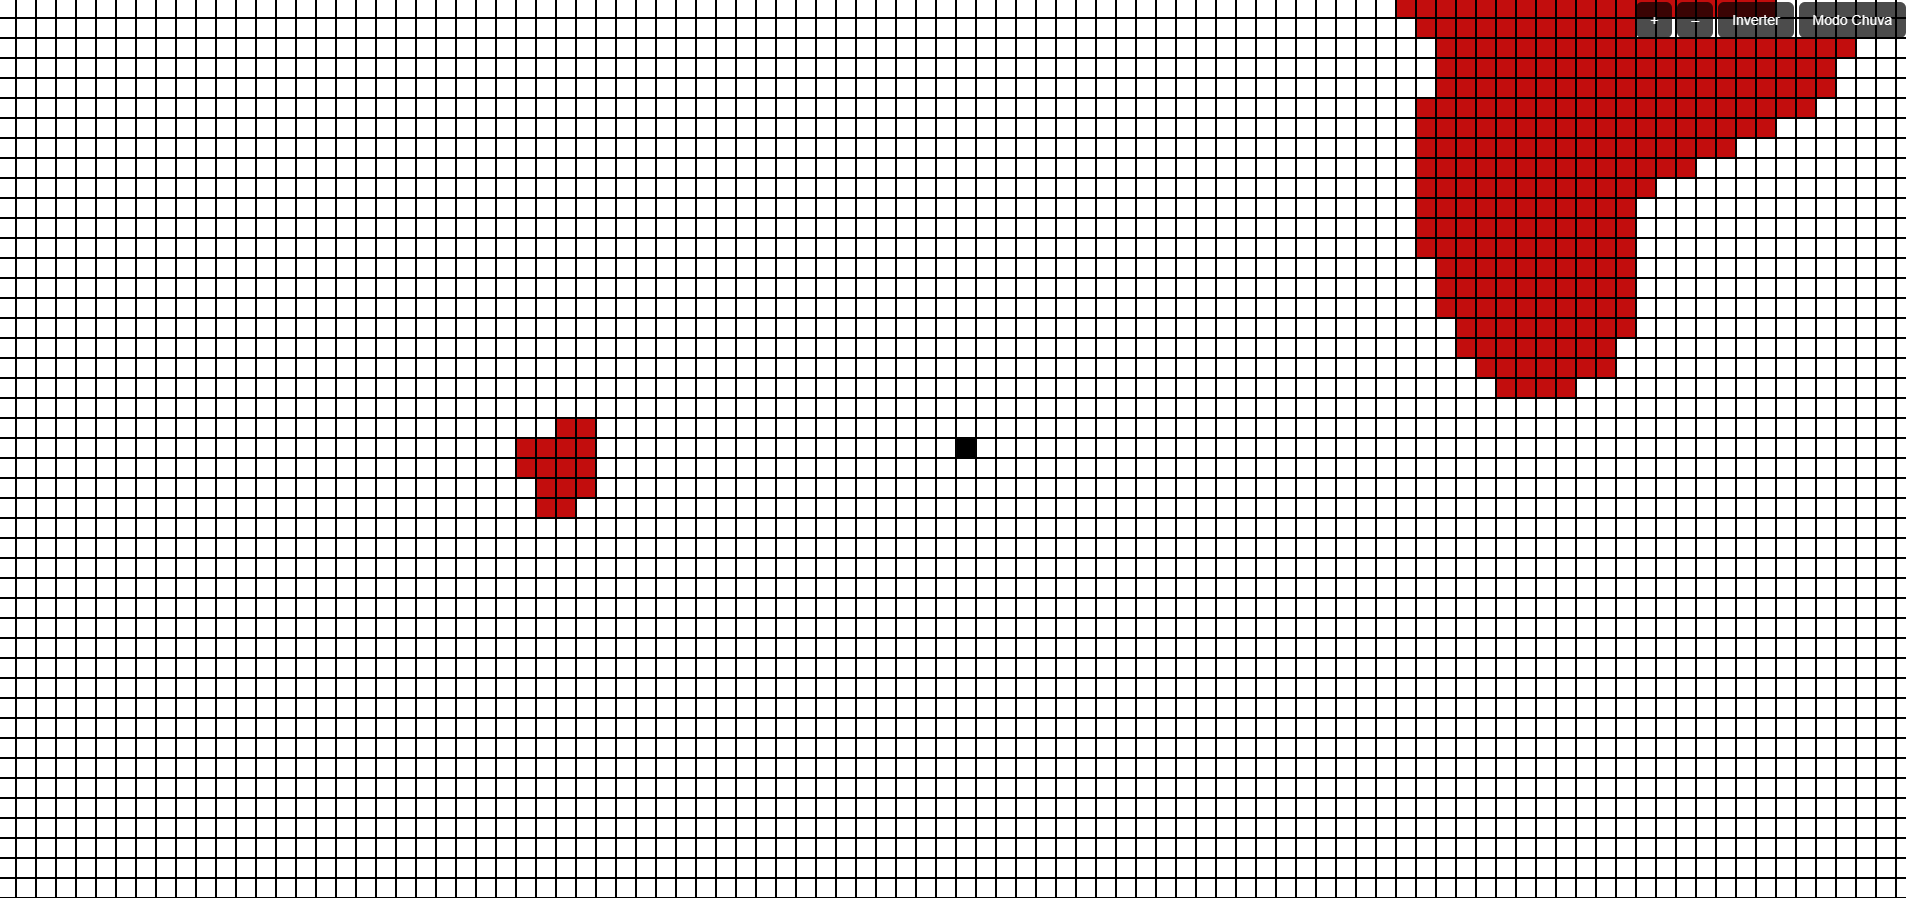
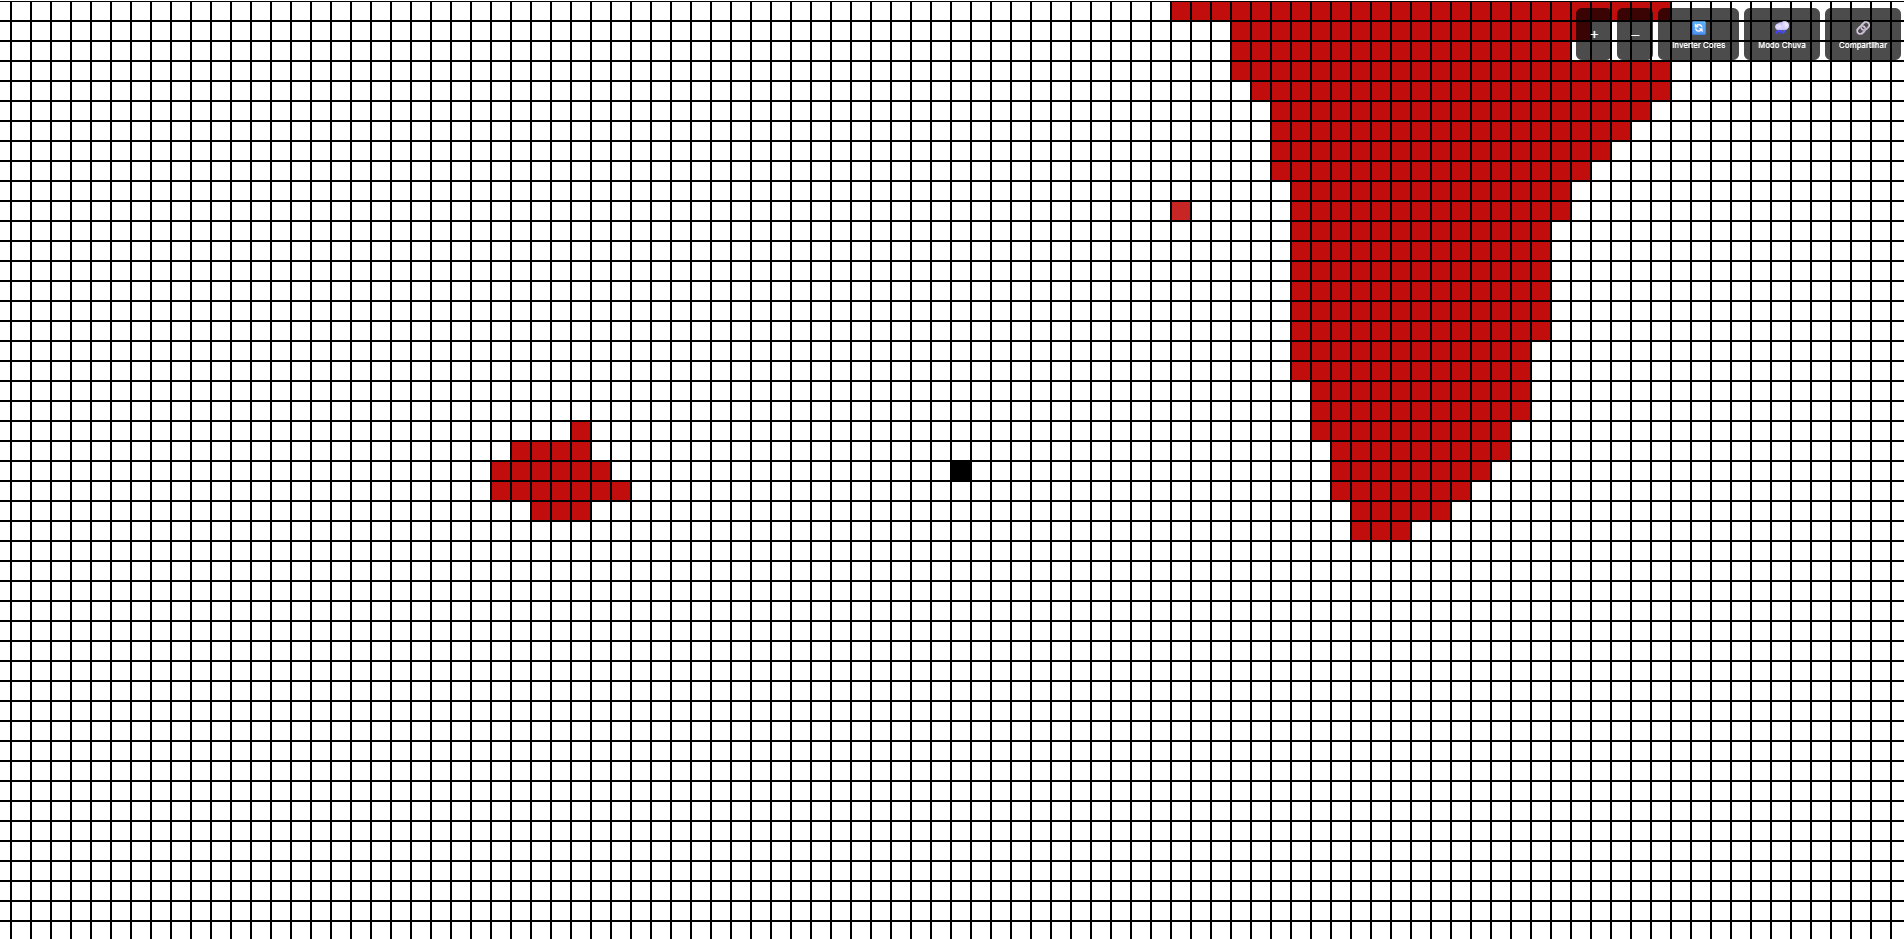
Refactor README to enhance feature list and add sharing functionality; update index.html for improved rain mode controls and grid sharing; update screenshot

diff --git a/index.html b/index.html
@@ -107,6 +107,16 @@
                 background-color: rgba(0, 0, 0, 0.9);
             }
 
+            .toggle-button.active {
+                background-color: rgba(0, 0, 0, 1);
+            }
+
+            .toggle-button span {
+                display: block;
+                font-size: 60%;
+                padding-top: 3px;
+            }
+
             body.dark .toggle-button,
             body.dark .zoom-button {
                 background-color: rgba(255, 255, 255, 0.2);
@@ -116,6 +126,11 @@
             body.dark .toggle-button:hover,
             body.dark .zoom-button:hover {
                 background-color: rgba(255, 255, 255, 0.4);
+            }
+
+            body.dark .toggle-button.active {
+                background-color: rgba(255, 255, 255, 1);
+                color: black;
             }
 
             @media print {
@@ -178,14 +193,18 @@
                 onclick="toggleTheme()"
                 title="Inverter cores (Ctrl + I)"
             >
-                Inverter
+                🔄<span>Inverter Cores</span>
             </button>
             <button
+                id="rain-toggle"
                 class="toggle-button"
                 onclick="toggleRainMode()"
                 title="Ativar/Desativar Modo Chuva (Ctrl + R)"
             >
-                Modo Chuva
+                🌧<span>Modo Chuva</span>
+            </button>
+            <button class="toggle-button" onclick="copyShareLink()" title="Compartilhar grade">
+                🔗<span>Compartilhar</span>
             </button>
         </div>
 
@@ -201,6 +220,7 @@
             let rainMode = false;
             let rainInterval;
 
+            /* Grid Drawing */
             function drawGrid() {
                 const grid = document.getElementById("grid");
 
@@ -253,6 +273,46 @@
                 }
             }
 
+            function drawGridFixed(columns, rows) {
+                const grid = document.getElementById("grid");
+                grid.innerHTML = "";
+
+                const cellSize = 20;
+                grid.style.gridTemplateColumns = `repeat(${columns}, ${cellSize}px)`;
+                grid.style.gridTemplateRows = `repeat(${rows}, ${cellSize}px)`;
+
+                for (let i = 0; i < columns * rows; i++) {
+                    const cell = document.createElement("div");
+                    cell.className = "grid-cell";
+
+                    cell.addEventListener("mousedown", (e) => {
+                        e.preventDefault();
+                        isMouseDown = true;
+                        eraseMode = e.button === 2;
+                        paintCell(cell);
+                    });
+
+                    cell.addEventListener("mouseover", () => {
+                        if (isMouseDown) paintCell(cell);
+                    });
+
+                    cell.addEventListener("touchstart", (e) => {
+                        e.preventDefault();
+                        paintCell(cell);
+                    });
+
+                    grid.appendChild(cell);
+                }
+
+                // marca o ponto central
+                const centerCol = Math.floor(columns / 2);
+                const centerRow = Math.floor(rows / 2);
+                const centerIndex = centerRow * columns + centerCol;
+                if (grid.children[centerIndex]) {
+                    grid.children[centerIndex].classList.add("center-dot");
+                }
+            }
+
             function paintCell(cell) {
                 if (eraseMode) {
                     cell.classList.remove("colored");
@@ -261,32 +321,91 @@
                 }
             }
 
-            function toggleTheme() {
-                document.body.classList.toggle("dark");
+            /* Grid Reconstruction from URL */
+            function getGridDataString(columns, rows) {
+                const grid = document.getElementById("grid");
+                const cells = grid.children;
+                let output = `W[${columns}x${rows}]`;
+
+                for (let row = 0; row < rows; row++) {
+                    let rowStr = `R${row + 1}`;
+                    let currentStart = null;
+
+                    for (let col = 0; col <= columns; col++) {
+                        const index = row * columns + col;
+                        const cell = cells[index];
+                        const isColored = cell?.classList.contains("colored");
+
+                        if (isColored && currentStart === null) {
+                            currentStart = col + 1;
+                        } else if (!isColored && currentStart !== null) {
+                            rowStr += `[${currentStart}-${col}]`;
+                            currentStart = null;
+                        }
+                    }
+
+                    if (rowStr !== `R${row + 1}`) {
+                        output += rowStr;
+                    }
+                }
+
+                return btoa(output); // encode to base64
             }
 
-            function adjustZoom(delta) {
-                zoomLevel = Math.max(0.5, Math.min(3, zoomLevel + delta));
-                wrapper.style.transform = `scale(${zoomLevel})`;
-            }
+            function loadGridDataFromString(encodedData) {
+                const decoded = atob(encodedData);
+                const grid = document.getElementById("grid");
 
-            function showControls() {
-                controls.classList.remove("hidden");
-                clearTimeout(hideTimeout);
-                hideTimeout = setTimeout(() => {
-                    controls.classList.add("hidden");
-                }, 3000);
-            }
+                const sizeMatch = decoded.match(/^W\[(\d+)x(\d+)\]/);
+                if (!sizeMatch) return;
+                const columns = parseInt(sizeMatch[1]);
+                const rows = parseInt(sizeMatch[2]);
 
-            function toggleRainMode() {
-                rainMode = !rainMode;
-                if (rainMode) {
-                    startRain();
-                } else {
-                    clearInterval(rainInterval);
+                drawGridFixed(columns, rows); // cria a grade com tamanho fixo
+
+                const cells = grid.children;
+                const data = decoded.slice(sizeMatch[0].length);
+                const rowRegex = /R(\d+)((\[\d+-\d+\])+)/g;
+                const rangeRegex = /\[(\d+)-(\d+)\]/g;
+                let match;
+
+                while ((match = rowRegex.exec(data)) !== null) {
+                    const row = parseInt(match[1]) - 1;
+                    const rangesStr = match[2];
+                    let rangeMatch;
+                    while ((rangeMatch = rangeRegex.exec(rangesStr)) !== null) {
+                        const start = parseInt(rangeMatch[1]) - 1;
+                        const end = parseInt(rangeMatch[2]) - 1;
+                        for (let col = start; col <= end; col++) {
+                            const index = row * columns + col;
+                            if (cells[index])
+                                cells[index].classList.add("colored");
+                        }
+                    }
                 }
             }
 
+            function copyShareLink() {
+                if (rainMode) {
+                    alert("Desative o Modo Chuva para compartilhar.");
+                    return;
+                }
+
+                const grid = document.getElementById("grid");
+                const columns = parseInt(
+                    getComputedStyle(grid).gridTemplateColumns.split(" ").length
+                );
+                const rows = parseInt(
+                    getComputedStyle(grid).gridTemplateRows.split(" ").length
+                );
+                const dataStr = getGridDataString(columns, rows);
+                const url = new URL(window.location.href);
+                url.searchParams.set("data", dataStr);
+                navigator.clipboard.writeText(url.toString());
+                alert("Link copiado!");
+            }
+
+            /* Rain Mode */
             function startRain() {
                 const grid = document.getElementById("grid");
                 const cells = grid.children;
@@ -325,6 +444,37 @@
                 }, 300);
             }
 
+            /* Controls */
+            function toggleTheme() {
+                document.body.classList.toggle("dark");
+            }
+
+            function adjustZoom(delta) {
+                zoomLevel = Math.max(0.5, Math.min(3, zoomLevel + delta));
+                wrapper.style.transform = `scale(${zoomLevel})`;
+            }
+
+            function showControls() {
+                controls.classList.remove("hidden");
+                clearTimeout(hideTimeout);
+                hideTimeout = setTimeout(() => {
+                    controls.classList.add("hidden");
+                }, 3000);
+            }
+
+            function toggleRainMode() {
+                const btn = document.getElementById("rain-toggle");
+                rainMode = !rainMode;
+                if (rainMode) {
+                    startRain();
+                    btn.classList.add("active");
+                } else {
+                    clearInterval(rainInterval);
+                    btn.classList.remove("active");
+                }
+            }
+
+            /* Event Listeners */
             window.addEventListener("mouseup", () => {
                 isMouseDown = false;
             });
@@ -365,10 +515,19 @@
                 }
             });
 
-            window.addEventListener("resize", drawGrid);
+            window.addEventListener("load", () => {
+                const urlParams = new URLSearchParams(window.location.search);
+                const data = urlParams.get("data");
 
-            drawGrid();
-            showControls(); // Show on load
+                if (data) {
+                    loadGridDataFromString(data);
+                } else {
+                    drawGrid(); // padrão (responsivo)
+                    window.addEventListener("resize", drawGrid);
+                }
+
+                showControls();
+            });
         </script>
     </body>
 </html>

diff --git a/README.md b/README.md
@@ -4,11 +4,12 @@ Uma ferramenta de **triagem visual interativa** desenvolvida para **diagnóstico
 
 ## ✨ Funcionalidades
 
-- ✅ Grade responsiva para marcação de distorções visuais
-- ✅ Modo claro/escuro com um clique
-- ✅ Zoom in/out com botões ou atalho (Ctrl + + / -)
-- ✅ Botão para apagar toda a marcação (tecla espaço)
-- ✅ **Modo Chuva (Rain Mode)**: Linhas verticais com 4 blocos de altura descem aleatoriamente, simulando estímulos visuais para diagnóstico funcional de áreas de perda de percepção
+- ✅ **Grade responsiva** para marcação de distorções visuais  
+- ✅ **Modo claro/escuro** com um clique (ou atalho `Ctrl + I`)  
+- ✅ **Zoom in/out** com botões ou atalhos (`Ctrl + + / -`)  
+- ✅ **Botão para apagar** toda a marcação (tecla `Espaço`)  
+- ✅ **Modo Chuva (Rain Mode)**: Linhas verticais com 4 blocos de altura descem aleatoriamente, simulando estímulos visuais para diagnóstico funcional de áreas de perda de percepção  
+- ✅ **Compartilhamento da marcação atual**: Gera uma URL com os quadrados preenchidos codificados para compartilhamento
 
 ## 🌐 Acesso
 
